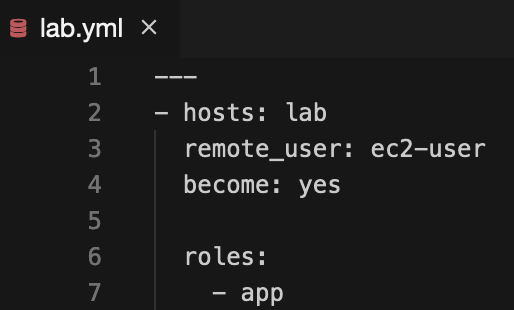
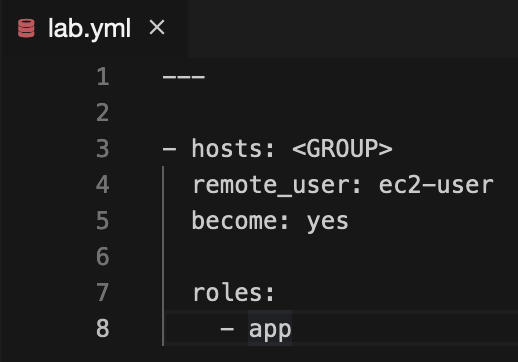
Readme tweaks

diff --git a/README.md b/README.md
@@ -1,4 +1,4 @@
-# Hands-On Infrastructure as code with Terraform
+# Hands-On with Terraform and Ansible
 
 ![](images/header.png)
 
@@ -223,7 +223,9 @@ In your IDE, open the file *lab.yml*. This is our playbook:
 
 ![](images/ansibleplaybook.png)
 
-This defines the groups of hosts to run against, the ssh user to use and the roles to execute. In this case the *app* role.
+Change *\<GROUP\>* to the group lab we specified in the *hosts* file. (It is called lab)
+
+This playbook defines the groups of hosts to run against, the ssh user to use and the roles to execute. In this case the *app* role.
 
 Let's have a look at the app role in more detail. Expand the folder called *app*. You will see the following structure:
 
